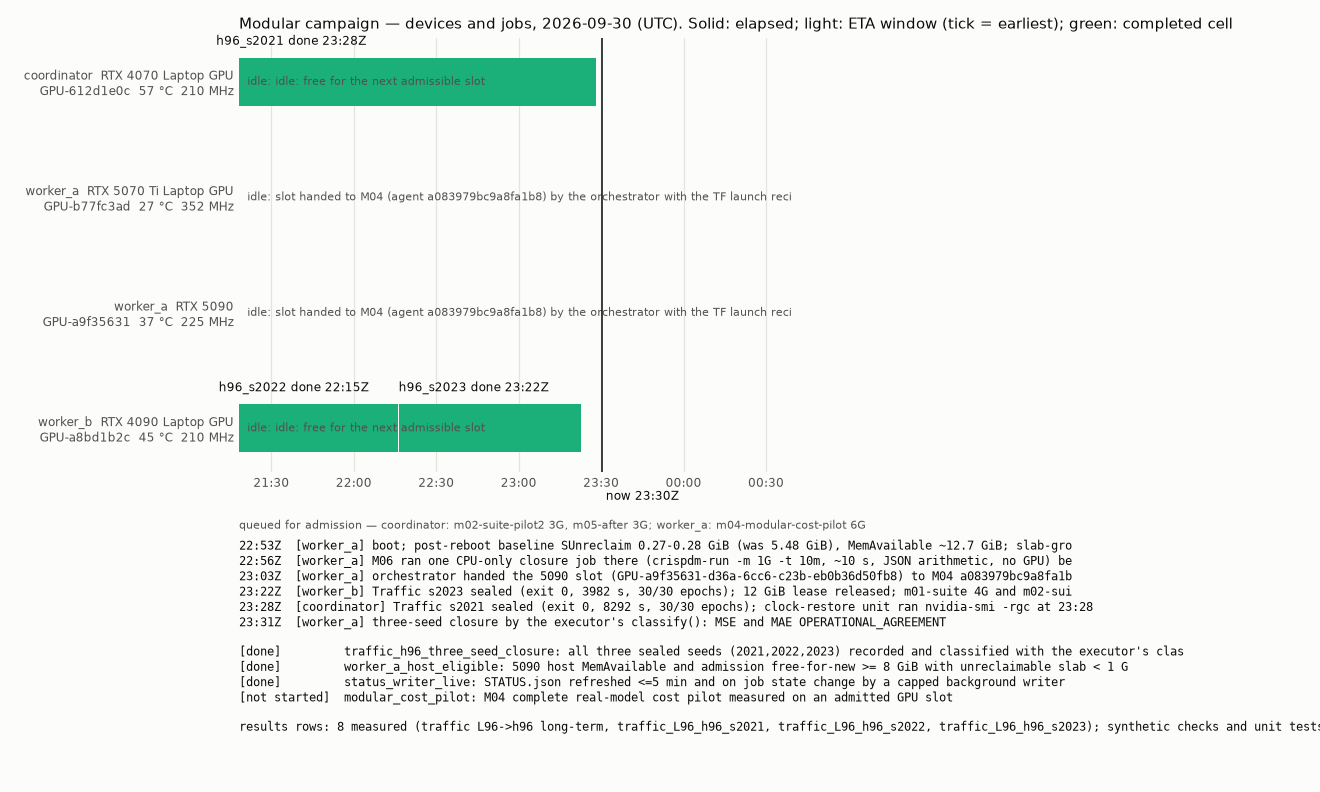
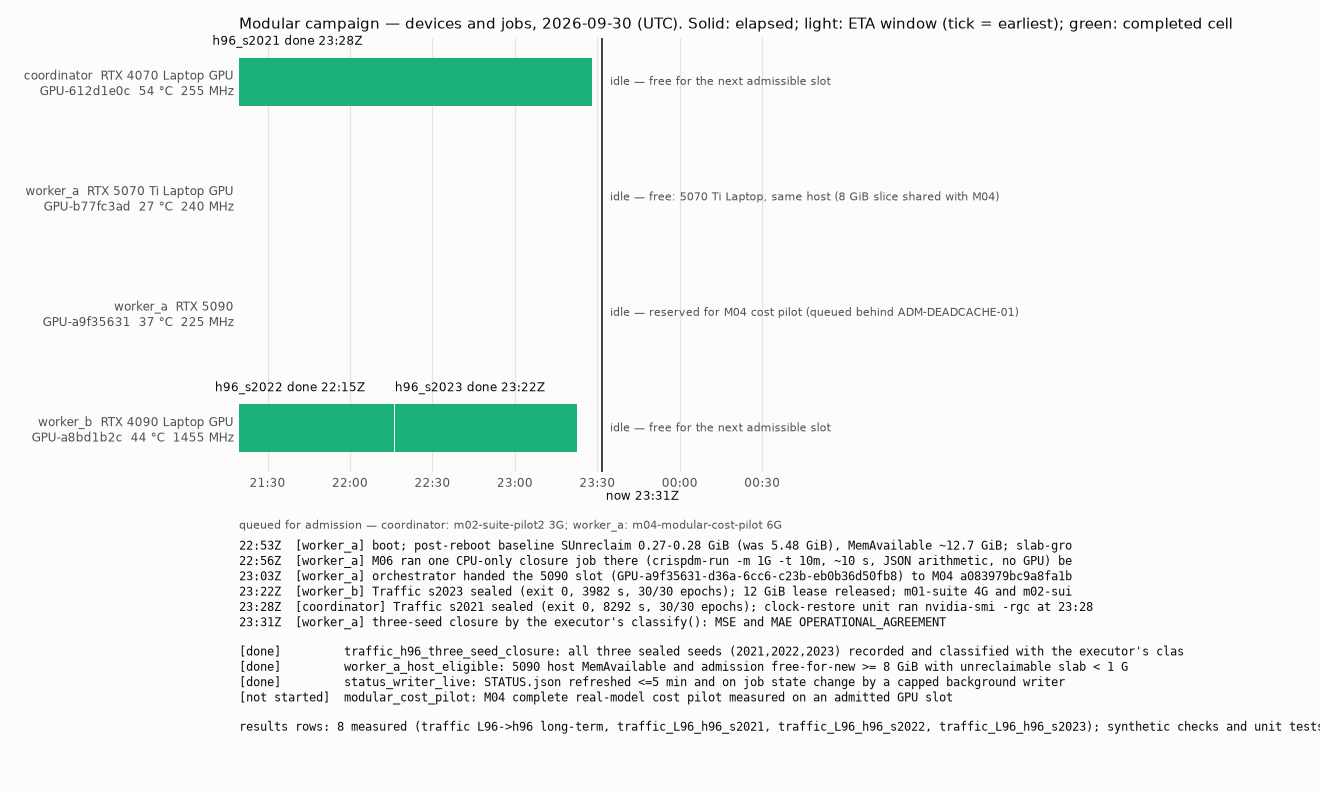
M06: per-GPU idle reasons on the 5090 host, cleaner PROGRESS.png labels

diff --git a/tools/m06_progress_png.py b/tools/m06_progress_png.py
@@ -59,7 +59,8 @@ def main(status_path, out_path):
                 ax.barh(y, b - a, left=a, height=0.42, color=DONE, zorder=3)
                 ax.text(a, y + 0.32, f"{j['id'].replace('traffic_L96_', '')} done {b:%H:%M}Z", fontsize=8, color=INK)
         if d["state"] == "idle":
-            ax.text(t0 + dt.timedelta(minutes=3), y, "idle: " + (d.get("reason") or "")[:88], va="center",
+            why = (d.get("reason") or "").removeprefix("idle: ")
+            ax.text(now + dt.timedelta(minutes=3), y, ("idle — " + why)[:70], va="center",
                     fontsize=7.5, color=INK2)
     q = [j for j in st["jobs"] if j.get("stage") == "queued_for_admission"]
     if q:

diff --git a/tools/m06_status_writer.py b/tools/m06_status_writer.py
@@ -290,7 +290,7 @@ def build(hosts, reg):
             if run:
                 reason = "adopted Traffic cell"
             elif role == "worker_a":
-                reason = reg.get("worker_a_idle_reason")
+                reason = reg.get("worker_a_idle_reason_by_uuid", {}).get(g["uuid"]) or reg.get("worker_a_idle_reason")
             else:
                 reason = "idle: free for the next admissible slot"
             devices.append({
